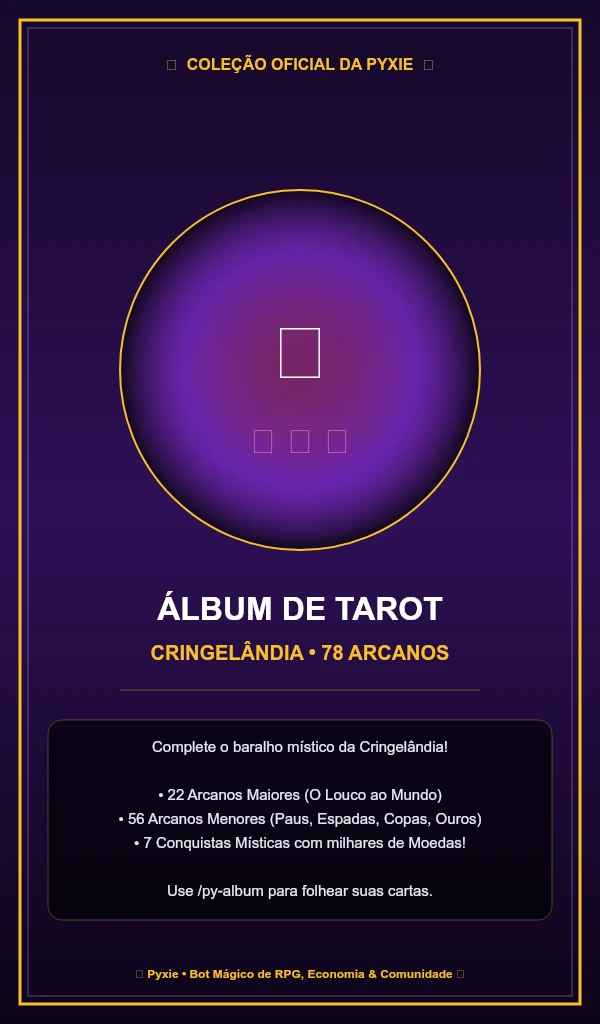
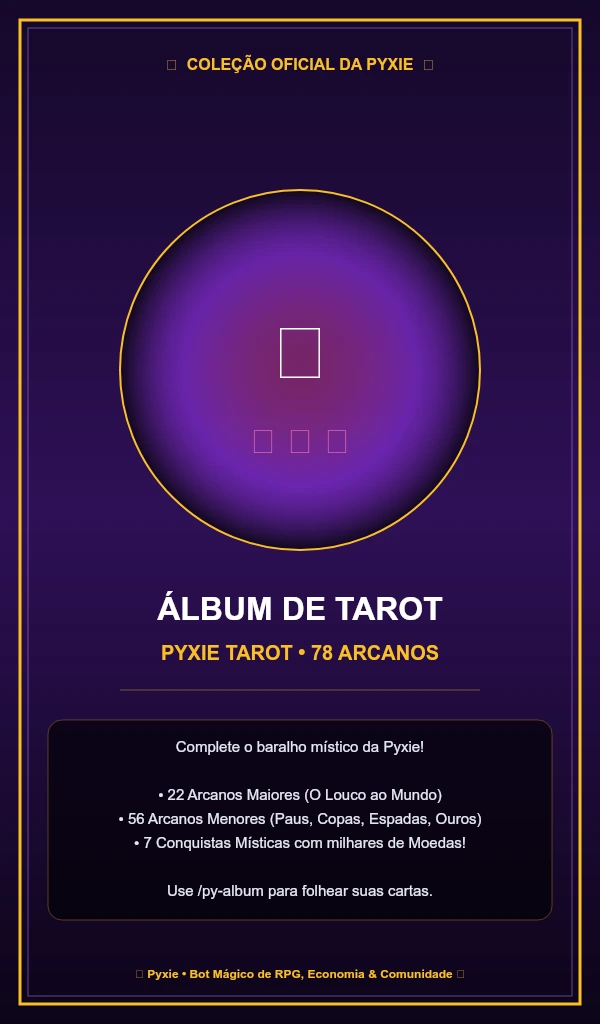
refactor(tarot): globalize naming to Tarot da Pyxie / Pyxie Tarot

Changed region(s): [[0.24, 0.7188, 0.75, 0.75], [0.24, 0.625, 0.75, 0.6562], [0.54, 0.7812, 0.69, 0.8125]]

diff --git a/src/utils/i18n.js b/src/utils/i18n.js
@@ -92,7 +92,7 @@ const CANVAS_STRINGS = {
       arcana: 'ARCANOS',
       uprightBadge: '✦ POSIÇÃO DIRETA ✦',
       reversedBadge: '✦ POSIÇÃO INVERTIDA ✦',
-      footer: 'TAROT • ORÁCULO DE CRINGELÂNDIA',
+      footer: 'TAROT • ORÁCULO DA PYXIE',
     },
   },
   en: {
@@ -478,7 +478,7 @@ const TRANSLATIONS = {
       "newDiscoveryDesc": "<@{user}> conseguiu uma carta inédita para sua coleção! A carta **{card}** foi registrada na posição **#{number}** do **Álbum**!"
     },
     "album": {
-      "title": "ÁLBUM DA CRINGELÂNDIA — PYXIE",
+      "title": "ÁLBUM DE TAROT DA PYXIE",
       "collector": "Colecionador: <@{user}> • Progresso: **{discovered}/78** descobertas ({percent}%)",
       "position": "Posição",
       "name": "Nome",
@@ -495,7 +495,7 @@ const TRANSLATIONS = {
       "btnLast": "78",
       "btnAchievements": "🏆 Conquistas & Moedas",
       "btnBackToAlbum": "📖 Folhear Cartas",
-      "achievementsTitle": "🏆 Conquistas do Álbum da Cringelândia",
+      "achievementsTitle": "🏆 Conquistas do Álbum da Pyxie",
       "achievementsSummary": "Conquistas Resgatadas: **{claimed}/7** • Prontas para Resgate: **{ready}**",
       "claimBtn": "Resgatar {coins} 🪙",
       "claimedBadge": "✅ Resgatada",
@@ -1029,7 +1029,7 @@ const TRANSLATIONS = {
       "newDiscoveryDesc": "<@{user}> obtained an unprecedented card for their collection! Card **{card}** was registered at position **#{number}** of the **Album**!"
     },
     "album": {
-      "title": "CRINGELÂNDIA ALBUM — PYXIE",
+      "title": "PYXIE TAROT ALBUM",
       "collector": "Collector: <@{user}> • Progress: **{discovered}/78** discoveries ({percent}%)",
       "position": "Position",
       "name": "Name",
@@ -1046,7 +1046,7 @@ const TRANSLATIONS = {
       "btnLast": "78",
       "btnAchievements": "🏆 Achievements & Coins",
       "btnBackToAlbum": "📖 Browse Cards",
-      "achievementsTitle": "🏆 Cringelândia Album Achievements",
+      "achievementsTitle": "🏆 Pyxie Album Achievements",
       "achievementsSummary": "Claimed Achievements: **{claimed}/7** • Ready to Claim: **{ready}**",
       "claimBtn": "Claim {coins} 🪙",
       "claimedBadge": "✅ Claimed",

diff --git a/scripts/generateTarotWebp.js b/scripts/generateTarotWebp.js
@@ -75,7 +75,7 @@ function generateLockedCard() {
   // Cabeçalho
   ctx.fillStyle = '#a855f7';
   ctx.font = 'bold 16px sans-serif';
-  ctx.fillText('🔮  CRINGELÂNDIA TAROT  🔮', WIDTH / 2, 70);
+  ctx.fillText('🔮  PYXIE TAROT  🔮', WIDTH / 2, 70);
 
   // Portal Místico de Bloqueio (Círculo com brilho)
   const cx = WIDTH / 2;
@@ -144,7 +144,7 @@ function generateLockedCard() {
     '',
     'Realize tiragens diárias no comando /py-tarot',
     'para desbloquear esta carta e registrá-la',
-    'em seu Álbum da Cringelândia!'
+    'em seu Álbum de Tarot da Pyxie!'
   ];
   descLines.forEach((l, i) => {
     ctx.fillText(l, cx, boxY + 38 + i * 26);
@@ -153,7 +153,7 @@ function generateLockedCard() {
   // Rodapé
   ctx.fillStyle = '#c084fc';
   ctx.font = 'bold 12px sans-serif';
-  ctx.fillText('✦ Álbum de Tarot da Cringelândia • Pyxie ✦', cx, 978);
+  ctx.fillText('✦ Álbum de Tarot da Pyxie ✦', cx, 978);
 
   const lockedPath = path.join(dirUi, 'card_locked.webp');
   fs.writeFileSync(lockedPath, canvas.toBuffer('image/webp'));
@@ -221,7 +221,7 @@ function generateAlbumCover() {
 
   ctx.fillStyle = '#fbbf24';
   ctx.font = 'bold 20px sans-serif';
-  ctx.fillText('CRINGELÂNDIA • 78 ARCANOS', cx, 660);
+  ctx.fillText('PYXIE TAROT • 78 ARCANOS', cx, 660);
 
   // Divisória
   ctx.strokeStyle = 'rgba(251, 191, 36, 0.4)';
@@ -248,10 +248,10 @@ function generateAlbumCover() {
   ctx.fillStyle = '#e2e8f0';
   ctx.font = '15px sans-serif';
   const coverLines = [
-    'Complete o baralho místico da Cringelândia!',
+    'Complete o baralho místico da Pyxie!',
     '',
     '• 22 Arcanos Maiores (O Louco ao Mundo)',
-    '• 56 Arcanos Menores (Paus, Espadas, Copas, Ouros)',
+    '• 56 Arcanos Menores (Paus, Copas, Espadas, Ouros)',
     '• 7 Conquistas Místicas com milhares de Moedas!',
     '',
     'Use /py-album para folhear suas cartas.'
@@ -274,3 +274,4 @@ generateLockedCard();
 generateAlbumCover();
 
 console.log('--- Processo concluído com 100% de sucesso! ---');
+

diff --git a/src/commands/tarot.js b/src/commands/tarot.js
@@ -92,7 +92,7 @@ function buildTarotEmbed(result, guildOrSource) {
     .setColor(embedColor)
     .setTitle(`${getAnimatedEmoji(guild, ['moon', 'tarot', 'magic'], '🌙')}  ✦  ${t('tarot.title', guildOrSource)}${guildName ? ` — ${guildName}` : ''}`)
     .setDescription(desc)
-    .setImage('attachment://tarot_cringelandia.png')
+    .setImage('attachment://tarot_pyxie.png')
     .setFooter({ text: 'Pyxie' })
     .setTimestamp();
 
@@ -161,7 +161,7 @@ async function logTarotToPublicChannel(client, { user, result, guild }) {
           orientation: getDisplayOrientation(result.orientation, guild),
         })}\n\n📖 ${progressLine}${newDiscoveryLine}`
       )
-      .setImage('attachment://tarot_cringelandia.png')
+      .setImage('attachment://tarot_pyxie.png')
       .setFooter({ text: 'Pyxie' })
       .setTimestamp();
 
@@ -276,7 +276,7 @@ module.exports = {
     .setName(name)
     .setDescription('Draw a daily Tarot card rendered with special artwork.')
     .setDescriptionLocalizations({
-      'pt-BR': 'Receba uma tiragem privada do Tarot da Cringelândia renderizada na hora.',
+      'pt-BR': 'Receba uma tiragem privada do Tarot da Pyxie renderizada na hora.',
     }),
   async executeSlash({ interaction }) {
     const result = drawTarot(interaction.user.id);

diff --git a/src/data/tarotAchievements.js b/src/data/tarotAchievements.js
@@ -3,8 +3,8 @@ const TAROT_ACHIEVEMENTS = [
     id: 'first_card',
     namePt: 'Primeiro Vislumbre',
     nameEn: 'First Glimpse',
-    descPt: 'Cole sua 1ª carta no Álbum da Cringelândia.',
-    descEn: 'Paste your 1st card in the Cringelândia Album.',
+    descPt: 'Cole sua 1ª carta no Álbum de Tarot da Pyxie.',
+    descEn: 'Paste your 1st card into the Pyxie Tarot Album.',
     rewardCoins: 100,
     check: (cards) => ({ current: Math.min(cards.length, 1), target: 1 }),
   },
@@ -78,8 +78,8 @@ const TAROT_ACHIEVEMENTS = [
     id: 'full_deck_78',
     namePt: 'Soberano do Oráculo',
     nameEn: 'Sovereign of the Oracle',
-    descPt: 'Complete integralmente as 78 cartas do Álbum da Cringelândia.',
-    descEn: 'Complete all 78 cards of the Cringelândia Album.',
+    descPt: 'Complete integralmente as 78 cartas do Álbum de Tarot da Pyxie.',
+    descEn: 'Complete all 78 cards of the Pyxie Tarot Album.',
     rewardCoins: 15000,
     check: (cards) => ({ current: cards.length, target: 78 }),
   },
@@ -152,3 +152,4 @@ module.exports = {
   getAchievementById,
   evaluateAndSortAchievements,
 };
+

diff --git a/tests/tarot.test.js b/tests/tarot.test.js
@@ -45,7 +45,7 @@ try {
   assert.ok(reversedBuf.length > 10000, 'O buffer invertido deve ter tamanho válido.');
 
   const attachment = createTarotAttachment(sampleCard, 'UPRIGHT');
-  assert.equal(attachment.name, 'tarot_cringelandia.png', 'O anexo deve ter o nome correto.');
+  assert.equal(attachment.name, 'tarot_pyxie.png', 'O anexo deve ter o nome correto.');
 
   // 3. Validar sorteio diário e ciclo
   const testUser = 'user-tarot-test-123';
@@ -87,7 +87,7 @@ try {
   const remaining = getTimeUntilMidnight();
   assert.ok(remaining.totalMinutes >= 0 && remaining.totalMinutes <= 1440, 'Minutos restantes devem estar entre 0 e 1440.');
 
-  console.log('Verificação do Tarot Cringelândia (78 cartas, Canvas, Sorteio, Suborno): OK');
+  console.log('Verificação do Tarot da Pyxie (78 cartas, Canvas, Sorteio, Suborno): OK');
 } finally {
   if (originalState !== null) {
     fs.writeFileSync(stateFile, originalState, 'utf8');

diff --git a/tests/tarotAlbum.test.js b/tests/tarotAlbum.test.js
@@ -23,7 +23,7 @@ const {
 } = require('../src/services/tarotAlbumService');
 const { getBalance, setUserBalance } = require('../src/services/economy');
 
-console.log('🔮 Iniciando suíte de testes do Álbum de Tarot & Conquistas da Cringelândia...');
+console.log('🔮 Iniciando suíte de testes do Álbum de Tarot & Conquistas da Pyxie...');
 
 // 1. Catálogo Canônico de 78 Cartas
 assert.equal(TOTAL_CARDS, 78, 'Total de cartas deve ser exatamente 78');

diff --git a/src/services/tarotRenderer.js b/src/services/tarotRenderer.js
@@ -522,7 +522,7 @@ function renderTarotCard(card, orientation = 'UPRIGHT', lang = 'pt') {
  */
 function createTarotAttachment(card, orientation = 'UPRIGHT', lang = 'pt') {
   const buffer = renderTarotCard(card, orientation, lang);
-  return new AttachmentBuilder(buffer, { name: 'tarot_cringelandia.png' });
+  return new AttachmentBuilder(buffer, { name: 'tarot_pyxie.png' });
 }
 
 module.exports = {

diff --git a/src/services/tarotAlbumService.js b/src/services/tarotAlbumService.js
@@ -246,3 +246,4 @@ module.exports = {
   hasCard,
   resolveCardNumber,
 };
+

diff --git a/src/commands/album.js b/src/commands/album.js
@@ -460,3 +460,4 @@ module.exports = {
     });
   },
 };
+
